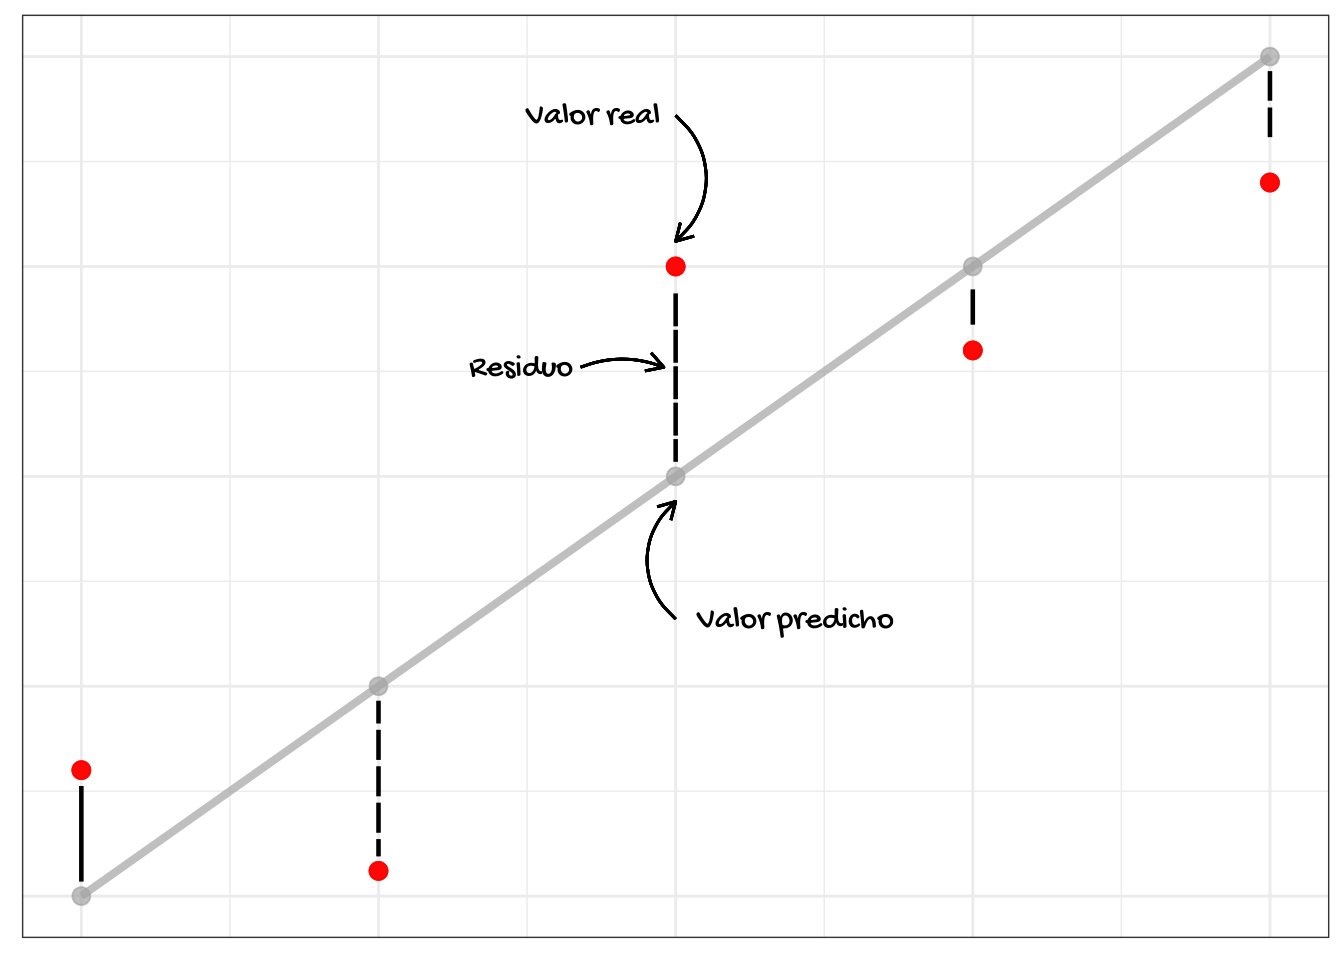
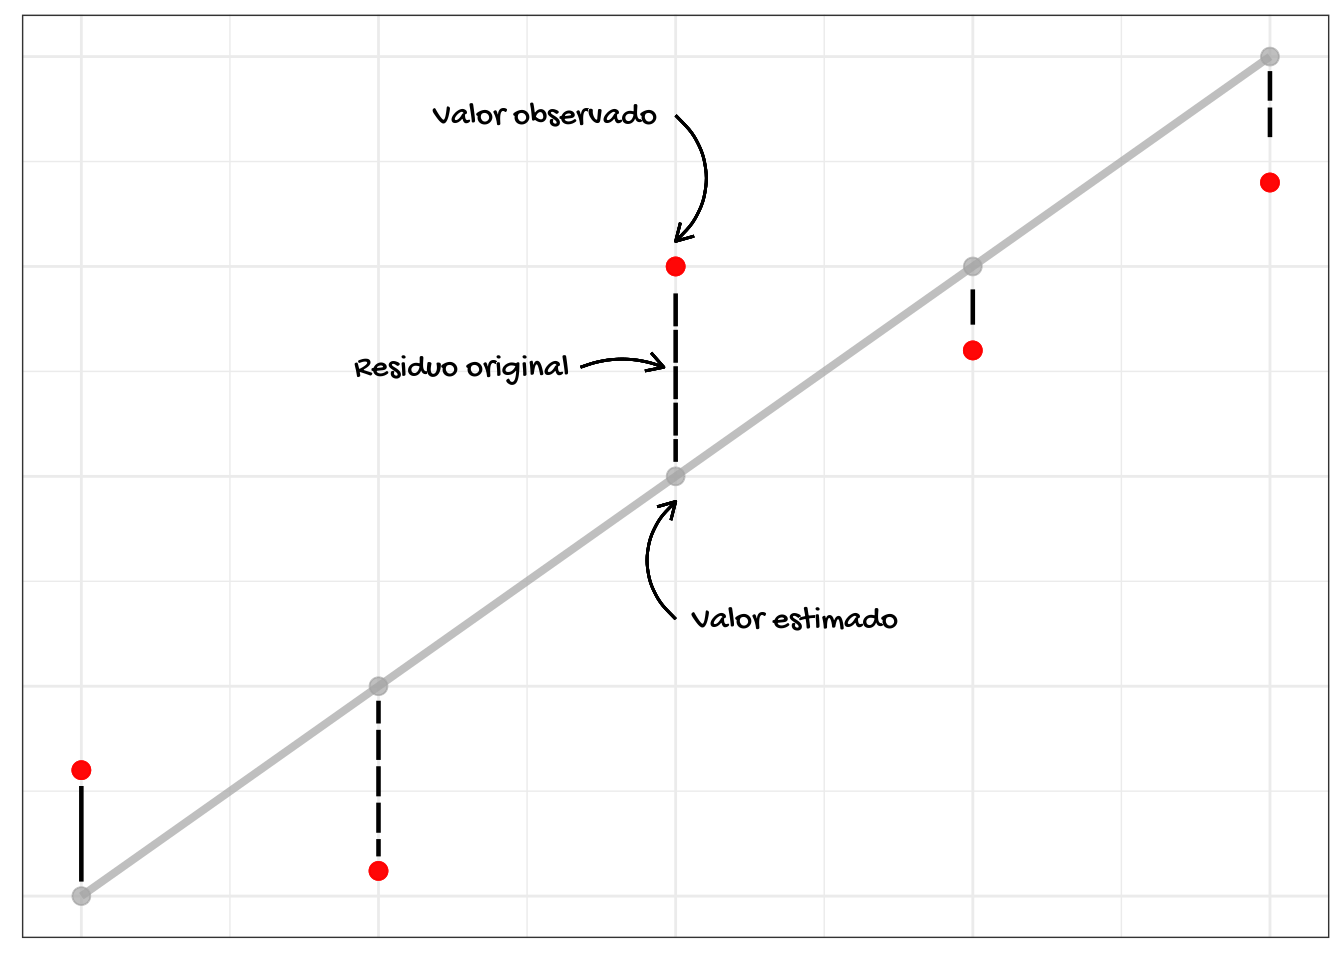
Se incluyo el tema de residuos en el capitulo de diagnosticodel modelo de regresión.

Changed region(s): [[0.3125, 0.0938, 0.5, 0.1562], [0.5, 0.625, 0.6875, 0.6562], [0.25, 0.375, 0.4375, 0.4062]]

diff --git a/docs/reg-diagnos.html b/docs/reg-diagnos.html
@@ -25,7 +25,7 @@
 <meta name="author" content="Jorge Leonardo López Martínez" />
 
 
-<meta name="date" content="2020-02-12" />
+<meta name="date" content="2020-02-13" />
 
   <meta name="viewport" content="width=device-width, initial-scale=1" />
   <meta name="apple-mobile-web-app-capable" content="yes" />
@@ -139,74 +139,63 @@
 <p>El objetivo de este capitulo consiste en introducir al lector los distintos métodos de diagnostico del modelo, los cuales permitiran identificar aquel modelo que represente sus datos con una mayor precisión.</p>
 <div id="los-residuos" class="section level2">
 <h2><span class="header-section-number">6.1</span> Los residuos</h2>
-<p><img src="libro_mod_pred_files/figure-html/Representaci%C3%B3n%20gr%C3%A1fica%20de%20los%20que%20es%20un%20residuo-1.png" width="100%" /></p>
+<p>Los residuos son la base de la mayoría de los métodos de diagnóstico. Estos pueden ser de distinto tipo. El residuo más básico es el denominado <em>residuo original</em>, <span class="math inline">\(\hat{\epsilon}_{i}\)</span>, el cual se define como la diferencia entre el valor observado, <span class="math inline">\(y_{i}\)</span>, y su correspondiente valor estimado por el modelo, <span class="math inline">\(\hat{\mu}_{i}\)</span>, así:</p>
+<p><span class="math display">\[\begin{align*}
+\hat{\epsilon}_{i} = y_{i} - \hat{\mu}_{i}, i = 1, 2, ..., n
+\end{align*}\]</span></p>
+<p>donde <span class="math inline">\(\hat{\mu}_{i}\)</span> es igual a <span class="math inline">\(x^{&#39;}_{i}\hat{\beta}\)</span>. A continuación, una representación gráfica de <span class="math inline">\(\hat{\epsilon}_{i}\)</span>:</p>
+<p><img src="libro_mod_pred_files/figure-html/Representaci%C3%B3n%20gr%C3%A1fica%20de%20los%20que%20es%20un%20residuo-1.png" width="80%" style="display: block; margin: auto;" /></p>
+<p>Luego los residuos originales se escalan con el fin de que su interpretación no dependa de las unidades de medida de la variable dependiente. El proceso de estandarización consiste en dividir al residuo original, <span class="math inline">\(\hat{\epsilon}_{i}\)</span>, su desviación estandar, <span class="math inline">\({\sigma}\)</span>, así: <span class="math inline">\(\frac{\hat{\epsilon}_{i}}{\sigma}\)</span>. Los residuos obtenidos de esta manera se denominan como <em>residuos estandarizados</em>.</p>
+<p>Sin embargo la verdadera desviación estándar rara vez se conoce. Por lo tanto, el escalado se realiza utilizando un estimador del mismo, <span class="math inline">\(\hat{\sigma}\)</span>, y dependiendo del estimador utilizado se distinguen otros dos tipos de residuos: los <em>residuos internamente estudentizados</em> y los <em>residuos externamente estudentizados</em>. La tabla a continuación, resume las formas básicas de los residuos escalados:</p>
 <table class="table" style="width: auto !important; margin-left: auto; margin-right: auto;">
 <thead>
 <tr>
 <th style="text-align:left;">
 </th>
 <th style="text-align:left;">
-x
-</th>
-<th style="text-align:left;">
-y
+Formula matemática
 </th>
 </tr>
 </thead>
 <tbody>
 <tr>
 <td style="text-align:left;">
-Estandarizado
+Estandarizado por <span class="math inline">\(\sigma\)</span>
 </td>
 <td style="text-align:left;">
-<ul>
-<li></td>
-<td style="text-align:left;">
-<ul>
-<li></td>
+<span class="math inline">\(\frac{\hat\epsilon_i}{\sigma}\)</span>
+</td>
 </tr>
 <tr>
 <td style="text-align:left;">
-Estudentizado 1
+Internamente estudentizado
 </td>
 <td style="text-align:left;">
-<ul>
-<li></td>
-<td style="text-align:left;">
-<ul>
-<li></td>
+<span class="math inline">\(\frac{\hat\epsilon_i}{\hat\sigma}\)</span>
+</td>
 </tr>
 <tr>
 <td style="text-align:left;">
-Estudentizado 2
+Externamente estudentizado
 </td>
 <td style="text-align:left;">
-<ul>
-<li></td>
-<td style="text-align:left;">
-<ul>
-<li></td>
+<span class="math inline">\(\frac{\hat\epsilon_i}{\hat\sigma_{(-i)}}\)</span>
+</td>
 </tr>
 </tbody>
 <tfoot>
 <tr>
 <td style="padding: 0; border: 0;" colspan="100%">
-<sup>*</sup> Nota;
+<sup>*</sup> En el residuo internamente estudentizado, <span class="math inline">\(\hat\sigma\)</span> denota<br> una estimación de <span class="math inline">\(\sigma\)</span> basada en todas las observaciones;
 </td>
 </tr>
 <tr>
 <td style="padding: 0; border: 0;" colspan="100%">
-<sup>†</sup> Nota.
+<sup>†</sup> En el residuo externamente estudentizado, <span class="math inline">\(\hat\sigma_{(-i)}\)</span> es una<br> estimación obtenida luego de excluir la i-ésima observación<br> de los cálculos.
 </td>
 </tr>
 </tfoot>
-</table></li>
-</ul></li>
-</ul></li>
-</ul></li>
-</ul></li>
-</ul></li>
-</ul>
+</table>
 </div>
 <div id="el-método-gráfico" class="section level2">
 <h2><span class="header-section-number">6.2</span> El método gráfico</h2>
